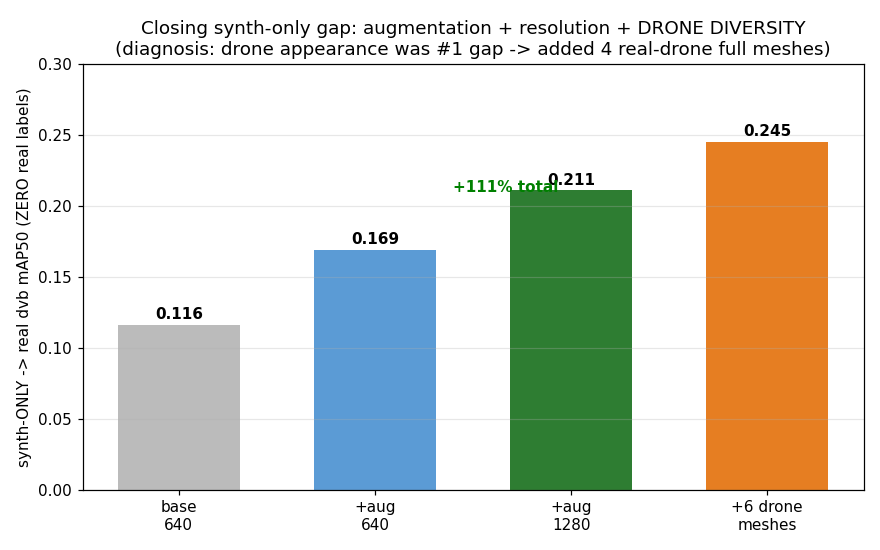
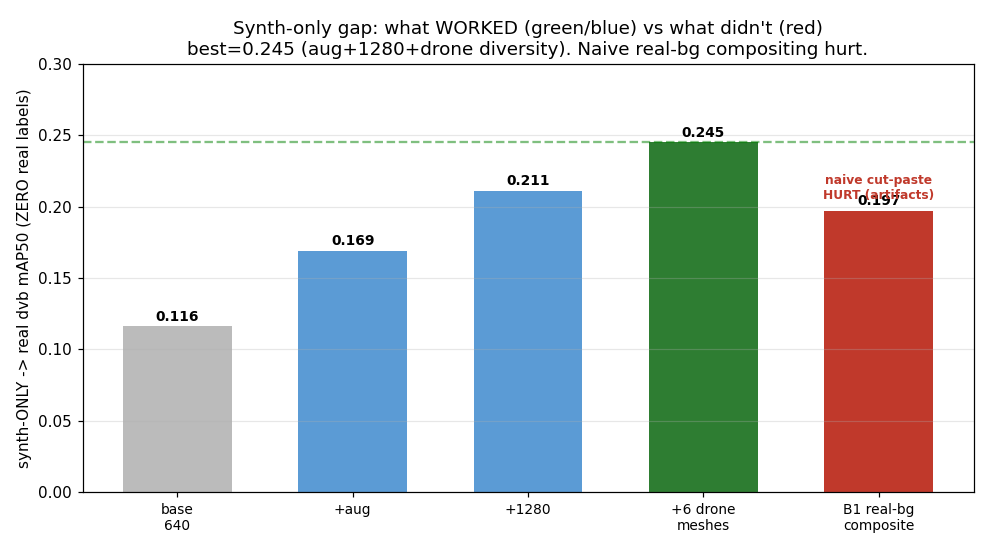
B1 실배경합성(cut-paste) 결과=실패(0.245→0.197). naive 마스크 아티팩트가 실배경 이득보다 해로움. 정직히 기록. 최고 합성-only=6종 Isaac 0.245(증강+1280+드론다양화). 합성-only 갭은 0.116→0.245(+111%)서 plateau

diff --git a/poc_city_render/composite_real_bg.py b/poc_city_render/composite_real_bg.py
@@ -1,0 +1,71 @@
+"""B1 실배경 합성 (Cut-Paste, Dwibedi'17): 합성드론을 실배경에 붙임 → 배경 단조 갭 해소.
+드론 컷아웃: 합성 sky배경 프레임서 하늘색 빼서 마스크. 배경: dvb-train 드론없는 실외(test와 분리).
+출력: cycle2_data/synth_composite/ (실배경 + 합성드론, YOLO box). val=dvb test3."""
+import glob, os, json, cv2, numpy as np, random, sys
+random.seed(0)
+OUT = "cycle2_data/synth_composite"
+N_OUT = int(sys.argv[1]) if len(sys.argv) > 1 else 450
+
+# 1) 합성 sky배경 드론 프레임 → 컷아웃(RGBA)
+cutouts = []
+for jf in glob.glob("dataset_v1/sequences/*.json"):
+    d = json.load(open(jf))
+    if d.get("background") != "sky":   # 하늘배경만(깨끗한 마스크)
+        continue
+    for fr in d["frames"]:
+        bb = fr.get("bbox_xywh_norm"); px = fr.get("px", 0)
+        if not bb or px < 45:           # 충분히 큰 것만(컷아웃 깨끗)
+            continue
+        img = cv2.imread("dataset_v1/images/" + fr["file"])
+        if img is None: continue
+        H, W = img.shape[:2]
+        cx, cy, w, h = bb
+        x1 = max(0, int((cx-w/2)*W)-4); y1 = max(0, int((cy-h/2)*H)-4)
+        x2 = min(W, int((cx+w/2)*W)+4); y2 = min(H, int((cy+h/2)*H)+4)
+        crop = img[y1:y2, x1:x2]
+        if crop.size == 0 or crop.shape[0] < 8 or crop.shape[1] < 8: continue
+        # 하늘색 = 테두리 픽셀 중앙값, 드론 = 거기서 먼 픽셀
+        bd = np.concatenate([crop[0], crop[-1], crop[:, 0], crop[:, -1]])
+        sky = np.median(bd, axis=0)
+        dist = np.linalg.norm(crop.astype(float) - sky, axis=2)
+        mask = (dist > 28).astype(np.uint8)
+        mask = cv2.morphologyEx(mask, cv2.MORPH_CLOSE, np.ones((3, 3), np.uint8))
+        mask = cv2.morphologyEx(mask, cv2.MORPH_OPEN, np.ones((2, 2), np.uint8))
+        if mask.sum() < 30: continue
+        rgba = np.dstack([crop, mask*255])
+        cutouts.append(rgba)
+print(f"드론 컷아웃 {len(cutouts)}개 추출", flush=True)
+
+bgs = []
+for lf in glob.glob("benchmarks/dvb/train/labels/*.txt"):
+    if '1' not in set(l.split()[0] for l in open(lf) if l.split()):
+        ip = lf.replace("/labels/", "/images/").rsplit(".", 1)[0]
+        for e in (".jpg", ".png", ".jpeg"):
+            if os.path.exists(ip+e): bgs.append(ip+e); break
+print(f"실배경 {len(bgs)}장", flush=True)
+
+os.makedirs(f"{OUT}/images", exist_ok=True); os.makedirs(f"{OUT}/labels", exist_ok=True)
+for i in range(N_OUT):
+    bg = cv2.imread(random.choice(bgs))
+    if bg is None: continue
+    H, W = bg.shape[:2]
+    rows = []
+    for _ in range(random.randint(1, 3)):
+        co = random.choice(cutouts); ch, cw = co.shape[:2]
+        tgt = random.randint(20, 130)                       # dvb 작은드론 스케일
+        sc = tgt/max(ch, cw); nw, nh = max(6, int(cw*sc)), max(6, int(ch*sc))
+        co2 = cv2.resize(co, (nw, nh))
+        px = random.randint(0, max(1, W-nw)); py = random.randint(0, max(1, H-nh))
+        roi = bg[py:py+nh, px:px+nw]
+        if roi.shape[:2] != (nh, nw): continue
+        a = (co2[:, :, 3:4].astype(float)/255.0)
+        bg[py:py+nh, px:px+nw] = (co2[:, :, :3]*a + roi*(1-a)).astype(np.uint8)
+        rows.append(f"0 {(px+nw/2)/W:.6f} {(py+nh/2)/H:.6f} {nw/W:.6f} {nh/H:.6f}")
+    if rows:
+        cv2.imwrite(f"{OUT}/images/c{i:04d}.jpg", bg)
+        open(f"{OUT}/labels/c{i:04d}.txt", "w").write("\n".join(rows))
+n = len(glob.glob(f"{OUT}/images/*.jpg"))
+AB = os.path.abspath("cycle2_data")
+open("cycle2_data/d_composite.yaml", "w").write(
+    f"path: {AB}\ntrain: synth_composite/images\nval: test3/images\nnc: 1\nnames: ['drone']\n")
+print(f"합성완료 {n}장 → {OUT}", flush=True)